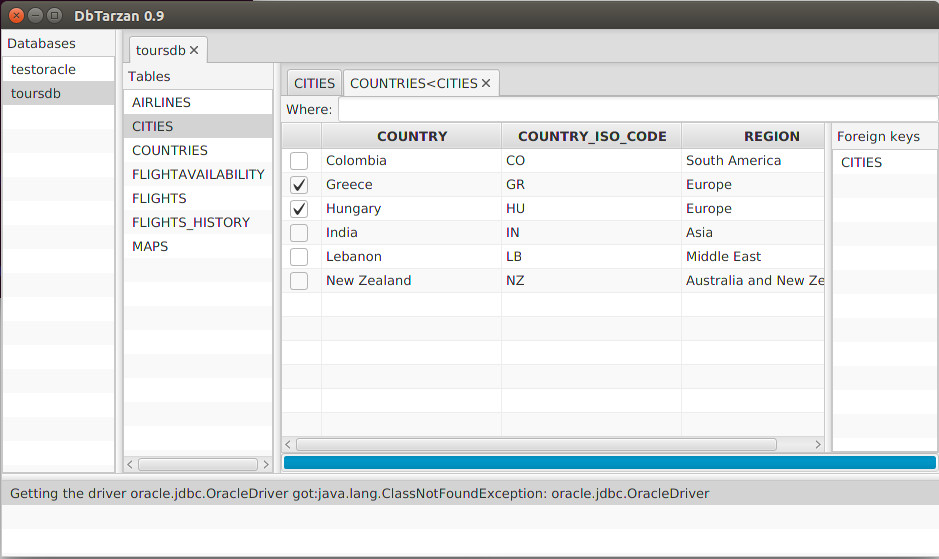
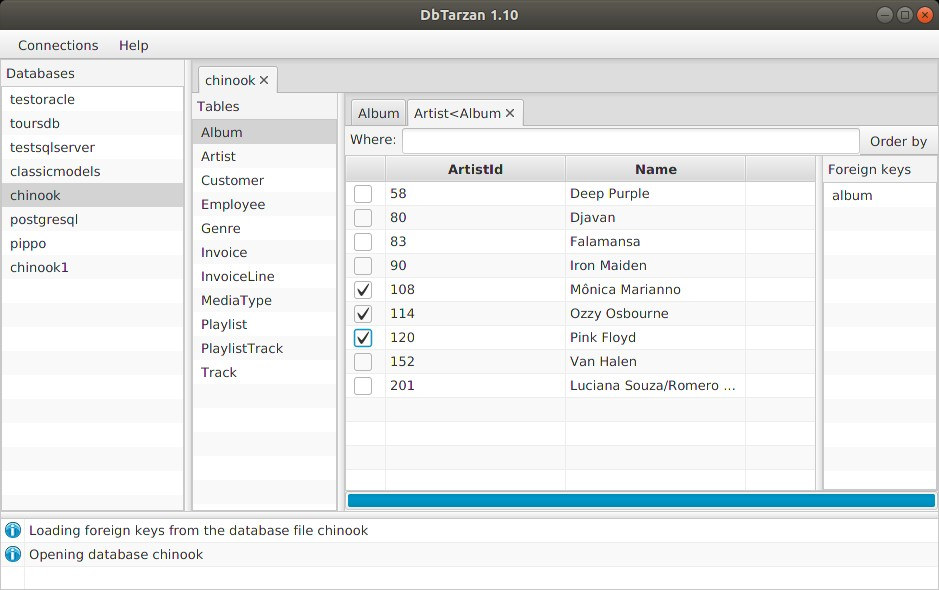
updated application window pictures

diff --git a/sourceforge/README.md b/sourceforge/README.md
@@ -3,7 +3,7 @@ DbTarzan installation
 
 dbtarzan_XXX.exe : executable for Windows. Just copy it to a directory and run it. dbtarzan needs a [connections.config file](https://github.com/aferrandi/dbtarzan/wiki/The-database-connections-configuration-file) in the same directory. 
 
-dbtarzan_XXX_one-jar.jar : executable jar for Linux, MacOSX and other OSes. Just copy it to a directory and run it. dbtarzan needs a [connections.config file](https://github.com/aferrandi/dbtarzan/wiki/The-database-connections-configuration-file) in the same directory. 
+dbtarzan_XXX_assembly.jar : executable jar for Linux, MacOSX and other OSes. Just copy it to a directory and run it. dbtarzan needs a [connections.config file](https://github.com/aferrandi/dbtarzan/wiki/The-database-connections-configuration-file) in the same directory. 
 
 dbtarzan_XXX_all.deb : Debian pacakge for Linux. Download it and install it as a debian package, normally it is enough to double-click on the .deb file from the file manager. It is kind of experimental, because it can't be executed from the system menu, but it starts by typing "dbtarzan" in the shell; and because the debian installer sees it as "non free software", even if it is open source.     
 
@@ -13,15 +13,13 @@ DBTarzan needs Java 8, but in case of the Windows installation and of the debian
 DBTarzan changelog
 =================
 
+- Release 1.10
+
+Added possibility to use order by clauses in the queries, selecting the columns to use as order by columns and the direction (ascending or descending).
+
 - Release 1.09
 
 If the connection configuration includes a schema, it gets used not only for the foreign keys but also for the tables.
 Needed for SQL Server if the schema is not "dbo".
 
-- Release 1.08
-
-The passwords in the connections.config file are from now on encrypted by default.
-For backward compatibility the existing passwords, not encrypted, are correctly read and used by dbtarzan, but reentering them and saving them in the connection editor will turn them to encrypted.
-
-More error handling when connecting to a database.
 
